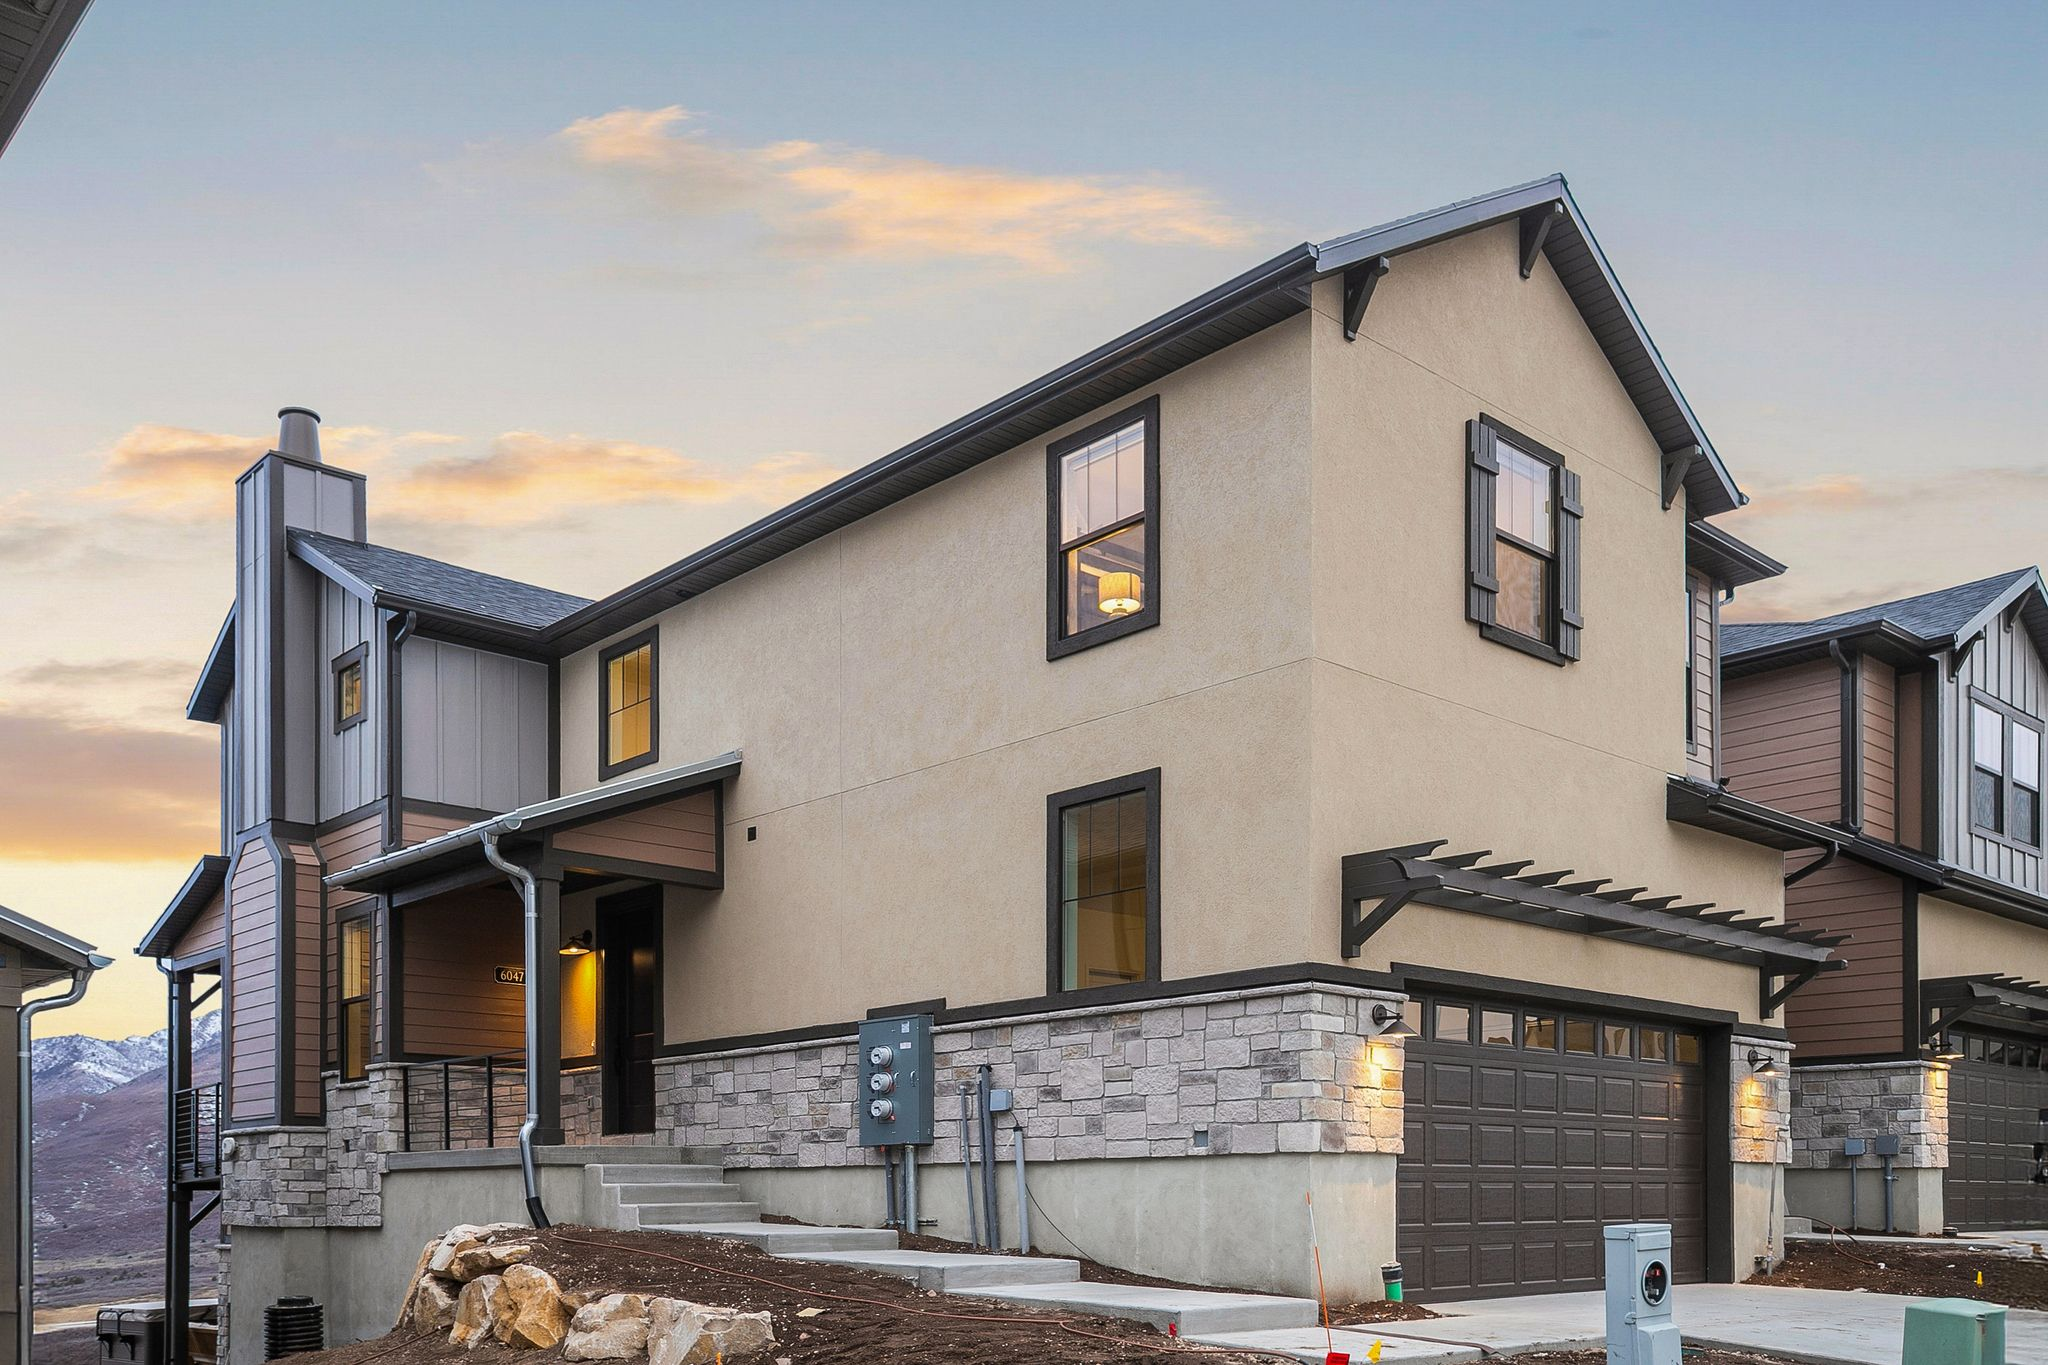
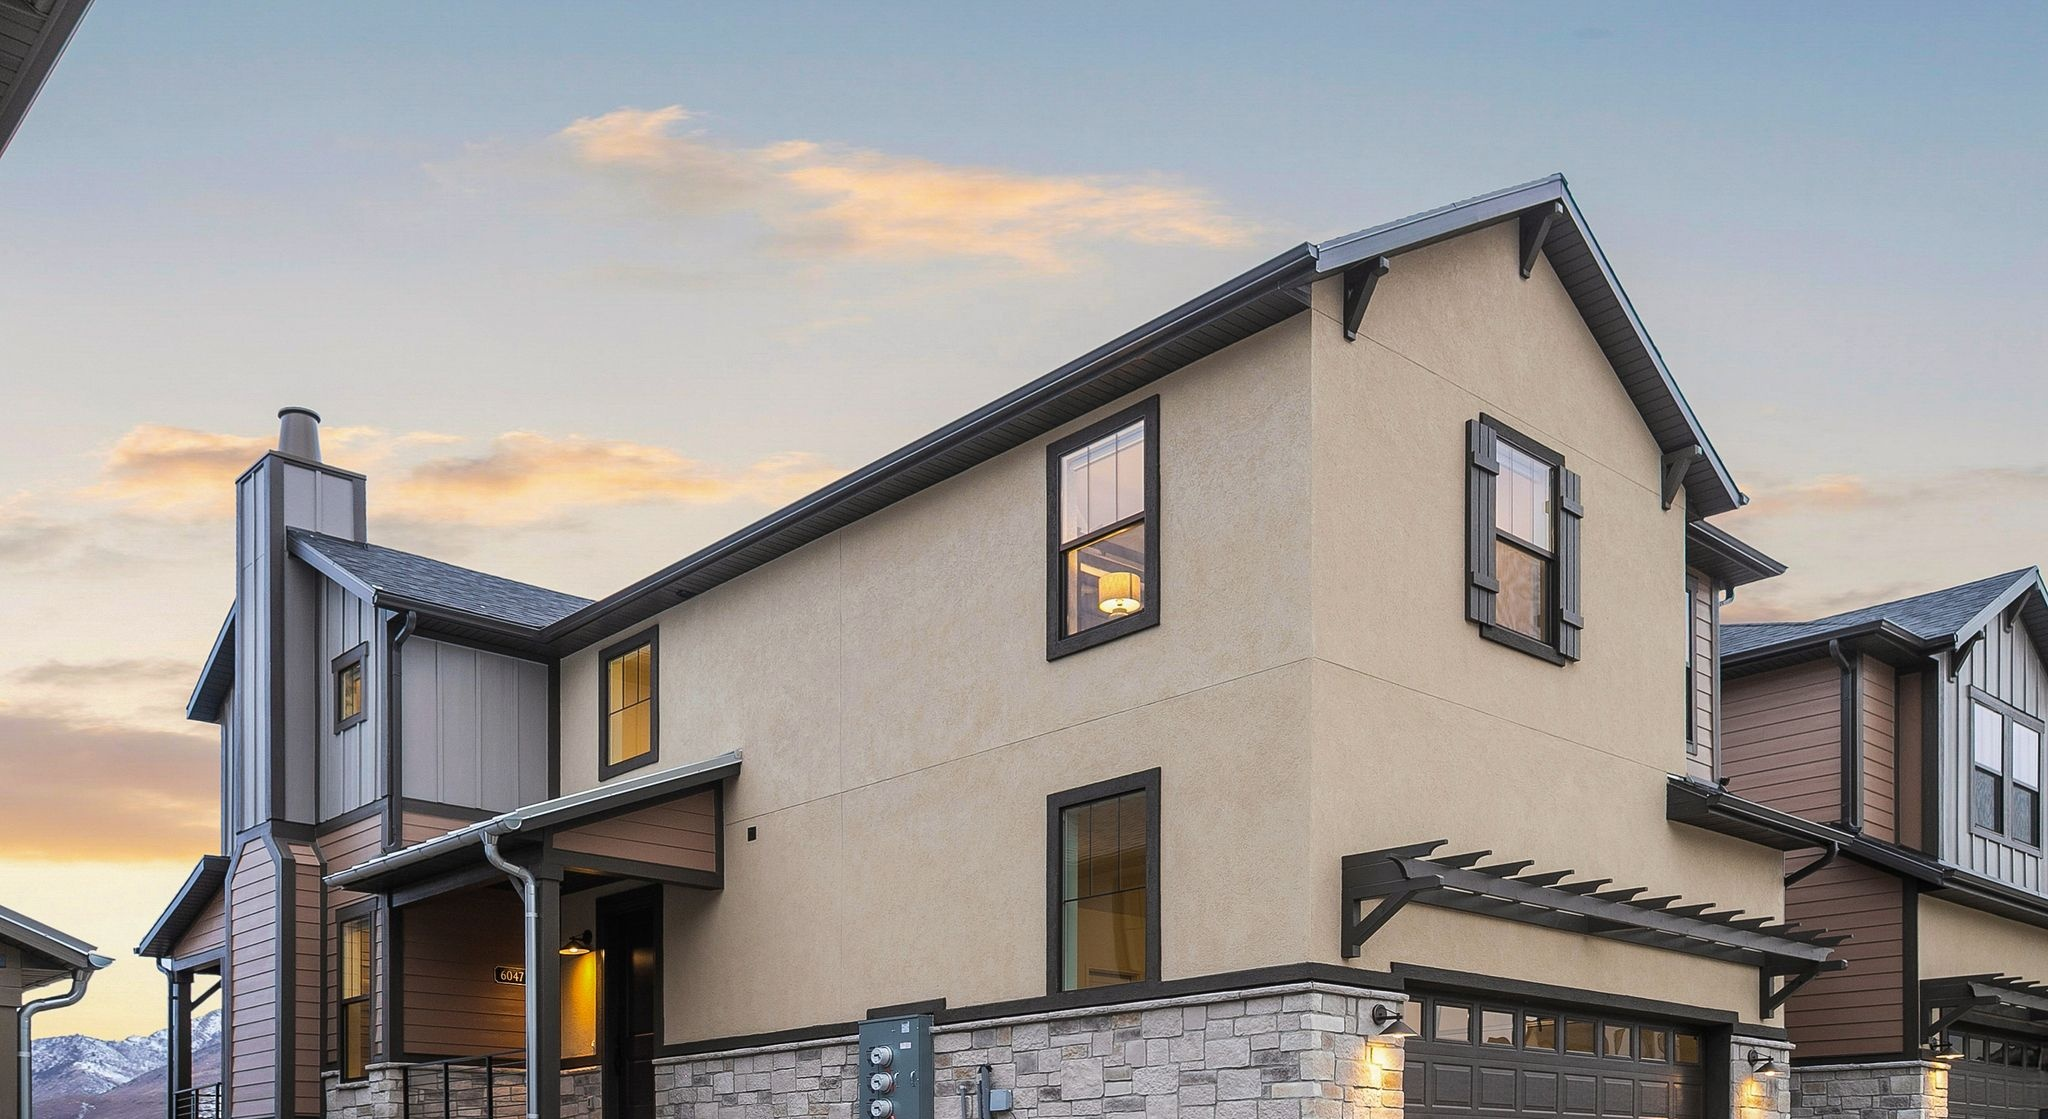
Crop photo break image to remove cables and construction ground

diff --git a/index.html b/index.html
@@ -344,7 +344,7 @@
 
 <!-- PHOTO BREAK -->
 <div class="photo-break fade-in">
-  <img src="images/photo-break-house.jpg" alt="Deer Valley Basecamp exterior at twilight" loading="lazy" style="object-position: center bottom;">
+  <img src="images/photo-break-house.jpg" alt="Deer Valley Basecamp exterior at twilight" loading="lazy">
   <div class="photo-break-overlay">
     <div class="photo-break-text">Where Every Season Tells a Story</div>
   </div>
